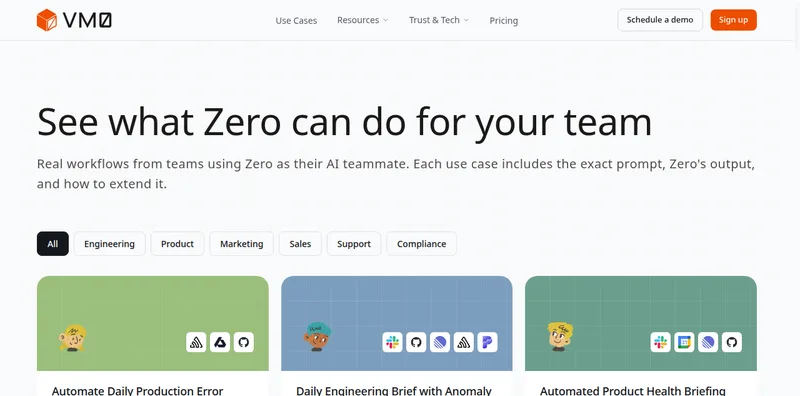
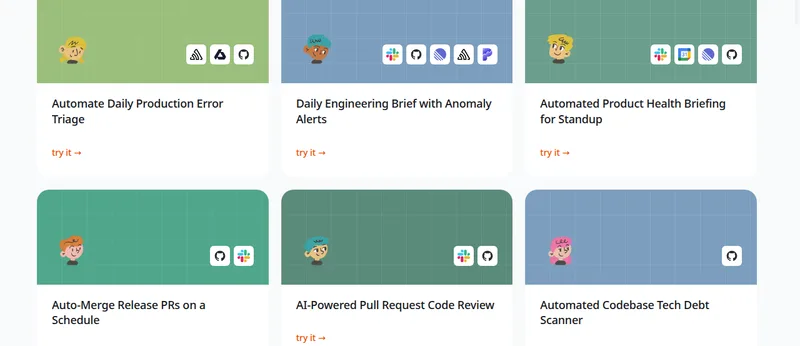
feat(onboarding): polish trial gallery layout
Redesign the trial step's left-panel showcase as a curated "Made with
Zero" gallery:

- Hero image card switches to a 4:5 portrait frame with a soft drop
  shadow so the artwork sits forward of the panel surface.
- Caption row gains a pill badge for the category, a one-line title,
  and a short subline so the user understands what each preview is.
- Dot indicators become 40x40 thumbnail buttons of the three images;
  active thumbnail is ringed with the brand primary on offset.

Workflow image recropped to drop the marketing nav bar at the top so
the use-case cards lead the frame instead of the VM0 logo.

diff --git a/turbo/apps/platform/src/views/zero-page/zero-onboarding.tsx b/turbo/apps/platform/src/views/zero-page/zero-onboarding.tsx
@@ -502,31 +502,31 @@ type TrialGalleryItem = {
   readonly id: string;
   readonly label: string;
   readonly title: string;
+  readonly subtitle: string;
   readonly image: string;
-  readonly imageBg: string;
 };
 
 const TRIAL_GALLERY_ITEMS: readonly TrialGalleryItem[] = [
   {
     id: "workflow",
     label: "Workflow",
-    title: "Run a workflow across your tools — in Slack or on the web",
+    title: "Workflows that run themselves",
+    subtitle: "Pull data, draft the brief, ship it to Slack each morning",
     image: trialWorkflowSrc,
-    imageBg: "bg-gray-50",
   },
   {
     id: "website",
     label: "Website",
-    title: "Generate a polished landing page from a single brief",
+    title: "Polished web pages from a single brief",
+    subtitle: "Modern landings, brand sites, launch pages",
     image: trialWebsiteSrc,
-    imageBg: "bg-white",
   },
   {
     id: "illustration",
     label: "Illustration",
-    title: "Editorial visuals that match your brand",
+    title: "Editorial illustrations, in your style",
+    subtitle: "28 plates in the register — pick one and ship",
     image: trialIllustrationSrc,
-    imageBg: "bg-background",
   },
 ];
 
@@ -541,24 +541,30 @@ function OnboardingTrialPanel() {
   return (
     <div
       data-testid="onboarding-trial-gallery"
-      className="w-full max-w-[360px] flex flex-col items-center"
+      className="w-full max-w-[380px] flex flex-col items-center"
     >
-      <div
-        className={`w-full h-[340px] zero-border rounded-2xl overflow-hidden flex items-center justify-center ${activeItem.imageBg}`}
-      >
+      <p className="text-[11px] font-medium text-muted-foreground mb-4">
+        Made with Zero
+      </p>
+      <div className="w-full aspect-[4/5] zero-border rounded-2xl overflow-hidden bg-background shadow-[0_8px_24px_-12px_rgba(0,0,0,0.12)]">
         <img
           src={activeItem.image}
           alt={`${activeItem.label} preview`}
           className="h-full w-full object-cover object-top"
         />
       </div>
-      <p className="mt-6 text-xs font-medium text-muted-foreground">
-        {activeItem.label}
-      </p>
-      <h3 className="mt-2 text-base font-semibold text-foreground text-center leading-snug max-w-[300px]">
-        {activeItem.title}
-      </h3>
-      <div className="mt-5 flex items-center gap-1.5">
+      <div className="mt-6 flex flex-col items-center text-center max-w-[320px]">
+        <span className="zero-badge rounded-full px-2.5 py-0.5 text-[11px] font-medium text-foreground">
+          {activeItem.label}
+        </span>
+        <h3 className="mt-3 text-base font-semibold text-foreground leading-snug">
+          {activeItem.title}
+        </h3>
+        <p className="mt-1.5 text-xs text-muted-foreground leading-relaxed">
+          {activeItem.subtitle}
+        </p>
+      </div>
+      <div className="mt-6 flex items-center gap-2.5">
         {TRIAL_GALLERY_ITEMS.map((item, i) => {
           const isActive = i === activeIndex;
           return (
@@ -570,10 +576,18 @@ function OnboardingTrialPanel() {
               onClick={() => {
                 setIndex(i);
               }}
-              className={`h-1.5 rounded-full transition-all ${
-                isActive ? "w-6 bg-foreground" : "w-1.5 bg-foreground/20"
-              } hover:bg-foreground/40`}
-            />
+              className={`relative h-10 w-10 rounded-lg overflow-hidden transition-all ${
+                isActive
+                  ? "ring-2 ring-primary ring-offset-2 ring-offset-background"
+                  : "opacity-50 hover:opacity-100"
+              }`}
+            >
+              <img
+                src={item.image}
+                alt=""
+                className="h-full w-full object-cover object-top"
+              />
+            </button>
           );
         })}
       </div>
